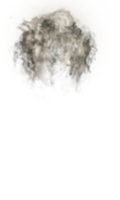
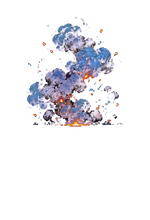
Bombing-run FX: Codex blue-energy and fire blast that fades to smoke

Changed region(s): [[0.1, 0.03, 0.825, 0.6]]

diff --git a/docs/ART_CREDITS.md b/docs/ART_CREDITS.md
@@ -193,5 +193,6 @@ dim green background spill on the outline is removed).
 (cut from the sheet's ranged frames) is the bombing-run ordnance: the
 off-map bombing sortie flown by the TIE bomber drops it on each hex
 (`images/misc/sw-energy-bomb-1..12.png`, `air.CRAFT_BURST` in lua/sw_air.lua):
-four frames of the ball falling, then the blue blast mixed with mainline's
-`halo/flame-burst` fire and smoke.
+four frames of the ball falling, then a 12-frame blast drawn by Codex to the
+owner's direction (blue energy and fiery combustion, smoke fading away;
+`~/art-references/codex-bomb-fx.png`), 16 frames in all.
